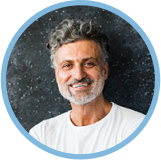
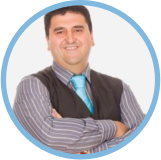
fix: :fire: Agregando nuevas modificaciones al landing de inversores
Se agregpo nueva funcionalidad de tracking para linkedin, cambio el Navbar, y varios ajustes visuales en las secciones

Traking, Linkedin, Responsive, Menu

diff --git a/resources/js/components/landings/InvestorComponent.vue b/resources/js/components/landings/InvestorComponent.vue
@@ -15,7 +15,9 @@
                                 data-aos-duration="1200"
                             />
 
-                            <div class="absolute inset-0 text-center lg:top-20">
+                            <div
+                                class="absolute inset-0 text-center top-16 lg:top-32"
+                            >
                                 <h1 class="pt-5">
                                     Invierte en ideas fuera de<br />
                                     este planeta
@@ -24,20 +26,20 @@
                                     Un universo de ideas innovadoras está listo
                                     para ser explorado.
                                 </h3>
-                                <div class="container">
+                                <!-- <div class="container">
                                     <search-component
                                         :selectedOpt="selectedOpt"
                                     ></search-component>
-                                </div>
-                                <p class="text-2xl py-3">
+                                </div> -->
+                                <p class="text-2xl pb-3">
                                     ¿Tienes el combustible necesario para hacer
                                     despegar esa StartUp única?
                                 </p>
                                 <div>
                                     <a
-                                        :href="goToRegister"
                                         target="_blank"
-                                        class="no-underline text-white hover:bg-[#2286b8] duration-700 ease-out border rounded-full px-5 py-2 text-3xl font-bold"
+                                        class="no-underline text-white hover:bg-[#2286b8] duration-700 ease-out border rounded-full px-5 py-2 text-2xl font-bold cursor-pointer"
+                                        @click.stop="linkedinAction"
                                     >
                                         <span class="hidden lg:inline-flex">
                                             ¡Únete ahora y acelera el
@@ -211,8 +213,10 @@
         <!-- nuestra comunidad -->
 
         <!-- startups -->
-        <section>
-            <div data-aos="fade-up" class="bg-moon py-5">
+        <section
+            class="bg-[url(/img/backgrounds/moon.png)] bg-contain bg-no-repeat bg-bottom"
+        >
+            <div data-aos="fade-up" class="py-5">
                 <div class="container text-center">
                     <div class="text-center">
                         <h3 class="font-black text-5xl text-white">
@@ -236,16 +240,16 @@
                                 contigo.
                             </p> -->
                             <a
-                                class="no-underline text-white hover:bg-[#2286b8] duration-700 ease-out border rounded-full px-5 py-2 hidden lg:inline-flex"
-                                :href="goToRegister"
+                                class="no-underline text-white hover:bg-[#2286b8] duration-700 ease-out border rounded-full px-5 py-2 hidden lg:inline-flex cursor-pointer"
+                                @click.stop="linkedinAction"
                                 target="_blank"
                             >
                                 Regístrate ahora y comienza a impulsar el
                                 crecimiento de startups únicas
                             </a>
                             <a
-                                class="no-underline text-white hover:bg-[#2286b8] duration-700 ease-out border rounded-full px-5 py-2 inline-flex lg:hidden"
-                                :href="goToRegister"
+                                class="no-underline text-white hover:bg-[#2286b8] duration-700 ease-out border rounded-full px-5 py-2 inline-flex lg:hidden cursor-pointer"
+                                @click.stop="linkedinAction"
                                 target="_blank"
                             >
                                 Regístrate ahora
@@ -327,12 +331,24 @@ export default {
             investors: [
                 {
                     img: "img/investor/investor-1.png",
+                    fullname: "Miguel Sillero",
+                    type: "Inversor",
+                    bio: "Como inversor activo en el mundo empresarial, he tenido la oportunidad de trabajar con muchas startups a lo largo de los años. Pero debo decir que mi experiencia con The Startup Community ha sido excepcional. Desde el primer momento, quedé impresionado por la visión clara y la pasión del equipo fundador por su producto.",
+                },
+                {
+                    img: "img/investor/investor-2.png",
+                    fullname: "Kristian Salemi",
+                    type: "Inversor",
+                    bio: "Estoy encantado de haber invertido en The Startup Community y de ser parte de su emocionante viaje de crecimiento. Estoy seguro de que tienen un futuro brillante por delante, y espero seguir apoyándolos en su camino hacia el éxito.",
+                },
+                {
+                    img: "img/investor/investor-3.png",
                     fullname: "Juan Pérez",
                     type: "Inversor",
                     bio: "Gracias a The Startup Community, encontré una startup en pleno despegue. La plataforma me ayudó a tomar decisiones de inversión más inteligentes y a impulsar el crecimiento de negocios prometedores.",
                 },
                 {
-                    img: "img/investor/investor-2.png",
+                    img: "img/investor/investor-4.png",
                     fullname: "María Sánchez",
                     type: "Inversora",
                     bio: "The Startup Community me permitió ampliar mi red al conectarme con otros inversores y profesionales. Ahora cuento con un grupo de expertos que me ayuda a mejorar mis habilidades como inversor.",
@@ -341,15 +357,15 @@ export default {
         };
     },
 
-    computed: {
-        goToRegister() {
-            return route("engine.register");
-        },
-    },
-
     methods: {
         goToRegister() {
             window.location.href = route("engine.register");
+        },
+
+        linkedinAction() {
+            window.lintrk("track", { conversion_id: 13222705 });
+
+            this.goToRegister();
         },
     },
 };

diff --git a/resources/js/components/landings/components/Startup.vue b/resources/js/components/landings/components/Startup.vue
@@ -2,7 +2,7 @@
     <div class="row px-5">
         <Loader v-if="loading" />
         <carousel :items-to-show="items" v-else>
-            <slide v-for="startup in startups" :key="startup">
+            <slide v-for="(startup, index) in startups" :key="index">
                 <div class="card comming-card">
                     <div
                         class="d-flex justify-content-center cursor-pointer"
@@ -12,11 +12,16 @@
                             :src="startup.logo ? startup.logo : 'img/frame.png'"
                             class="aspect-square 8-[120px] h-[180px] max-w-[180px] max-h-[180px] rounded-full object-center object-contain border-2 border-blue-400 bg-white"
                             :alt="startup.name"
+                            :class="{
+                                'lg:mt-20': index % 2 === 0,
+                            }"
                         />
                     </div>
                     <div class="comming-text p-2">
                         <h4 class="text-center">{{ startup.name }}</h4>
-                        <p class="text-white font-light text-base leading-6 lg:w-[300px]">
+                        <p
+                            class="text-white font-light text-base leading-6 lg:w-[300px]"
+                        >
                             {{ truncateText(startup.brand_statement, 100) }}
                         </p>
                     </div>

diff --git a/resources/css/custom.css b/resources/css/custom.css
@@ -8,12 +8,7 @@
     padding: 16px 72px 11px; */
     background: #fff !important;
     /* transition: all 0.5s; */
-    padding-top: 0;
-}
-
-.Cabezal_PrincipalDefault nav {
-    /* background: rgba(0, 0, 0, 0); */
-    background: #fff;
+    /* padding-top: 0; */
 }
 
 .home-main {

diff --git a/resources/views/layouts/components/navbar.blade.php b/resources/views/layouts/components/navbar.blade.php
@@ -1,6 +1,5 @@
 <nav class="navbar navbar-expand-lg bg-white fixed-top">
-    <div class="container px-3 py-2">
-
+    <div class="container py-2">
         {{--  hamburguesa - xs  --}}
         <button class="navbar-toggler" type="button" data-bs-toggle="offcanvas" data-bs-target="#navbarCanvaStartup"
             aria-controls="navbarCanvaStartup">
@@ -83,47 +82,93 @@
         </a>
 
         {{--  menu md  --}}
-        <div class="justify-center items-center hidden md:flex">
-            <ul class="flex items-center mt-3 gap-3 px-5">
-                <li>
-                    <a class="nav-link text-center" aria-current="page" href="{{ route('landings.startup') }}">
-                        Startups
-                    </a>
-                </li>
-                <li>
-                    <a class="nav-link text-center" aria-current="page" href="{{ route('landings.professional') }}">
-                        Profesionales
-                    </a>
-                </li>
-                <li>
-                    <a class="nav-link text-center" aria-current="page" href="{{ route('landings.investor') }}">
-                        Inversores
-                    </a>
-                </li>
-                </li>
-            </ul>
-            <div class="flex justify-end items-center gap-3">
-                <a class="btn btn-primary btn-lg uppercase" href="{{ route('engine.register') }}" target="_blank">
-                    ¡QUIERO Registrarme!
+        <ul class="mt-3 gap-3 px-5 justify-start hidden md:flex">
+            <li>
+                <a class="nav-link" aria-current="page" href="/">
+                    Home
                 </a>
-                <a class="px-4 py-[12px] bg-app-blue-2 text-white uppercase rounded-lg no-underline hover:bg-app-blue-1 transition-all ease-in-out duration-200 font-semibold" href="{{ route('engine.login') }}" target="_blank">
+            </li>
+            <li>
+                <a class="nav-link" aria-current="page" href="{{ route('landings.startup') }}">
+                    Startups
+                </a>
+            </li>
+            <li>
+                <a class="nav-link" aria-current="page" href="{{ route('landings.professional') }}">
+                    Profesionales
+                </a>
+            </li>
+            <li>
+                <a class="nav-link" aria-current="page" href="{{ route('landings.investor') }}">
+                    Inversores
+                </a>
+            </li>
+        </ul>
+        <div class="hidden md:flex justify-between items-center">
+            <div class="flex justify-end items-center gap-3">
+                <a class="px-10 py-2.5 bg-white text-app-blue-2 no-underline hover:bg-app-blue-1 transition-all ease-in-out duration-200 font-semibold border-0"
+                    href="{{ route('engine.login') }}" target="_blank">
                     {{--  svg login  --}}
-                    <div class="flex items-center gap-1">
-                        <svg width="68px" height="68px" viewBox="0 0 24 24" fill="none"
-                            xmlns="http://www.w3.org/2000/svg" class="w-6 h-6 text-white">
-                            <g id="SVGRepo_bgCarrier" stroke-width="0"></g>
-                            <g id="SVGRepo_tracerCarrier" stroke-linecap="round" stroke-linejoin="round"></g>
-                            <g id="SVGRepo_iconCarrier">
-                                <path
-                                    d="M15 4H18C19.1046 4 20 4.89543 20 6V18C20 19.1046 19.1046 20 18 20H15M11 16L15 12M15 12L11 8M15 12H3"
-                                    stroke="#ffffff" stroke-width="1.5" stroke-linecap="round" stroke-linejoin="round">
-                                </path>
-                            </g>
+                    <div class="flex items-center gap-2">
+                        <svg xmlns="http://www.w3.org/2000/svg" class="icon icon-tabler icon-tabler-user bg-app-blue-2 p-2 rounded-full hover:bg-app-blue-1 duration-300 ease-out" width="40"
+                            height="40" viewBox="0 0 24 24" stroke-width="1.5" stroke="#ffffff" fill="none"
+                            stroke-linecap="round" stroke-linejoin="round">
+                            <path stroke="none" d="M0 0h24v24H0z" fill="none" />
+                            <circle cx="12" cy="7" r="4" />
+                            <path d="M6 21v-2a4 4 0 0 1 4 -4h4a4 4 0 0 1 4 4v2" />
                         </svg>
-                        <span>Login</span>
+                        <span>Iniciar sesión</span>
                     </div>
+                </a>
+                <a class="py-2.5 px-10 bg-[#bd13b8] uppercase rounded-md text-zinc-50 hover:text-[#bd13b8] no-underline hover:bg-white hover:border hover:border-[#bd13b8] duration-300 ease-out"
+                    href="{{ route('engine.register') }}" target="_blank">
+                    <span class="font-semibold">
+                        Crear cuenta
+                    </span>
                 </a>
             </div>
         </div>
     </div>
 </nav>
+
+{{--  <nav class="navbar navbar-expand-lg navbar-light bg-light">
+    <div class="container-fluid">
+        <a class="navbar-brand" href="#">Navbar</a>
+        <button class="navbar-toggler" type="button" data-bs-toggle="collapse"
+            data-bs-target="#navbarSupportedContent" aria-controls="navbarSupportedContent" aria-expanded="false"
+            aria-label="Toggle navigation">
+            <span class="navbar-toggler-icon"></span>
+        </button>
+        <div class="collapse navbar-collapse" id="navbarSupportedContent">
+            <ul class="navbar-nav me-auto mb-2 mb-lg-0">
+                <li class="nav-item">
+                    <a class="nav-link active" aria-current="page" href="#">Home</a>
+                </li>
+                <li class="nav-item">
+                    <a class="nav-link" href="#">Link</a>
+                </li>
+                <li class="nav-item dropdown">
+                    <a class="nav-link dropdown-toggle" href="#" id="navbarDropdown" role="button"
+                        data-bs-toggle="dropdown" aria-expanded="false">
+                        Dropdown
+                    </a>
+                    <ul class="dropdown-menu" aria-labelledby="navbarDropdown">
+                        <li><a class="dropdown-item" href="#">Action</a></li>
+                        <li><a class="dropdown-item" href="#">Another action</a></li>
+                        <li>
+                            <hr class="dropdown-divider">
+                        </li>
+                        <li><a class="dropdown-item" href="#">Something else here</a></li>
+                    </ul>
+                </li>
+                <li class="nav-item">
+                    <a class="nav-link disabled" href="#" tabindex="-1" aria-disabled="true">Disabled</a>
+                </li>
+            </ul>
+            <form class="d-flex">
+                <input class="form-control me-2" type="search" placeholder="Search" aria-label="Search">
+                <button class="btn btn-outline-success" type="submit">Search</button>
+            </form>
+        </div>
+    </div>
+</nav>  --}}

diff --git a/resources/views/layouts/landing.blade.php b/resources/views/layouts/landing.blade.php
@@ -53,9 +53,11 @@
 
 <body class="HomeGeneral01">
     <div id="app">
-        <div class="Cabezal_PrincipalDefault pb-20">
-            @include('layouts.components.navbar')
-        </div>
+        <section class="pb-20">
+            <div class="container py-2 mx-auto">
+                @include('layouts.components.navbar')
+            </div>
+        </section>
 
         <main>
             @yield('content')
